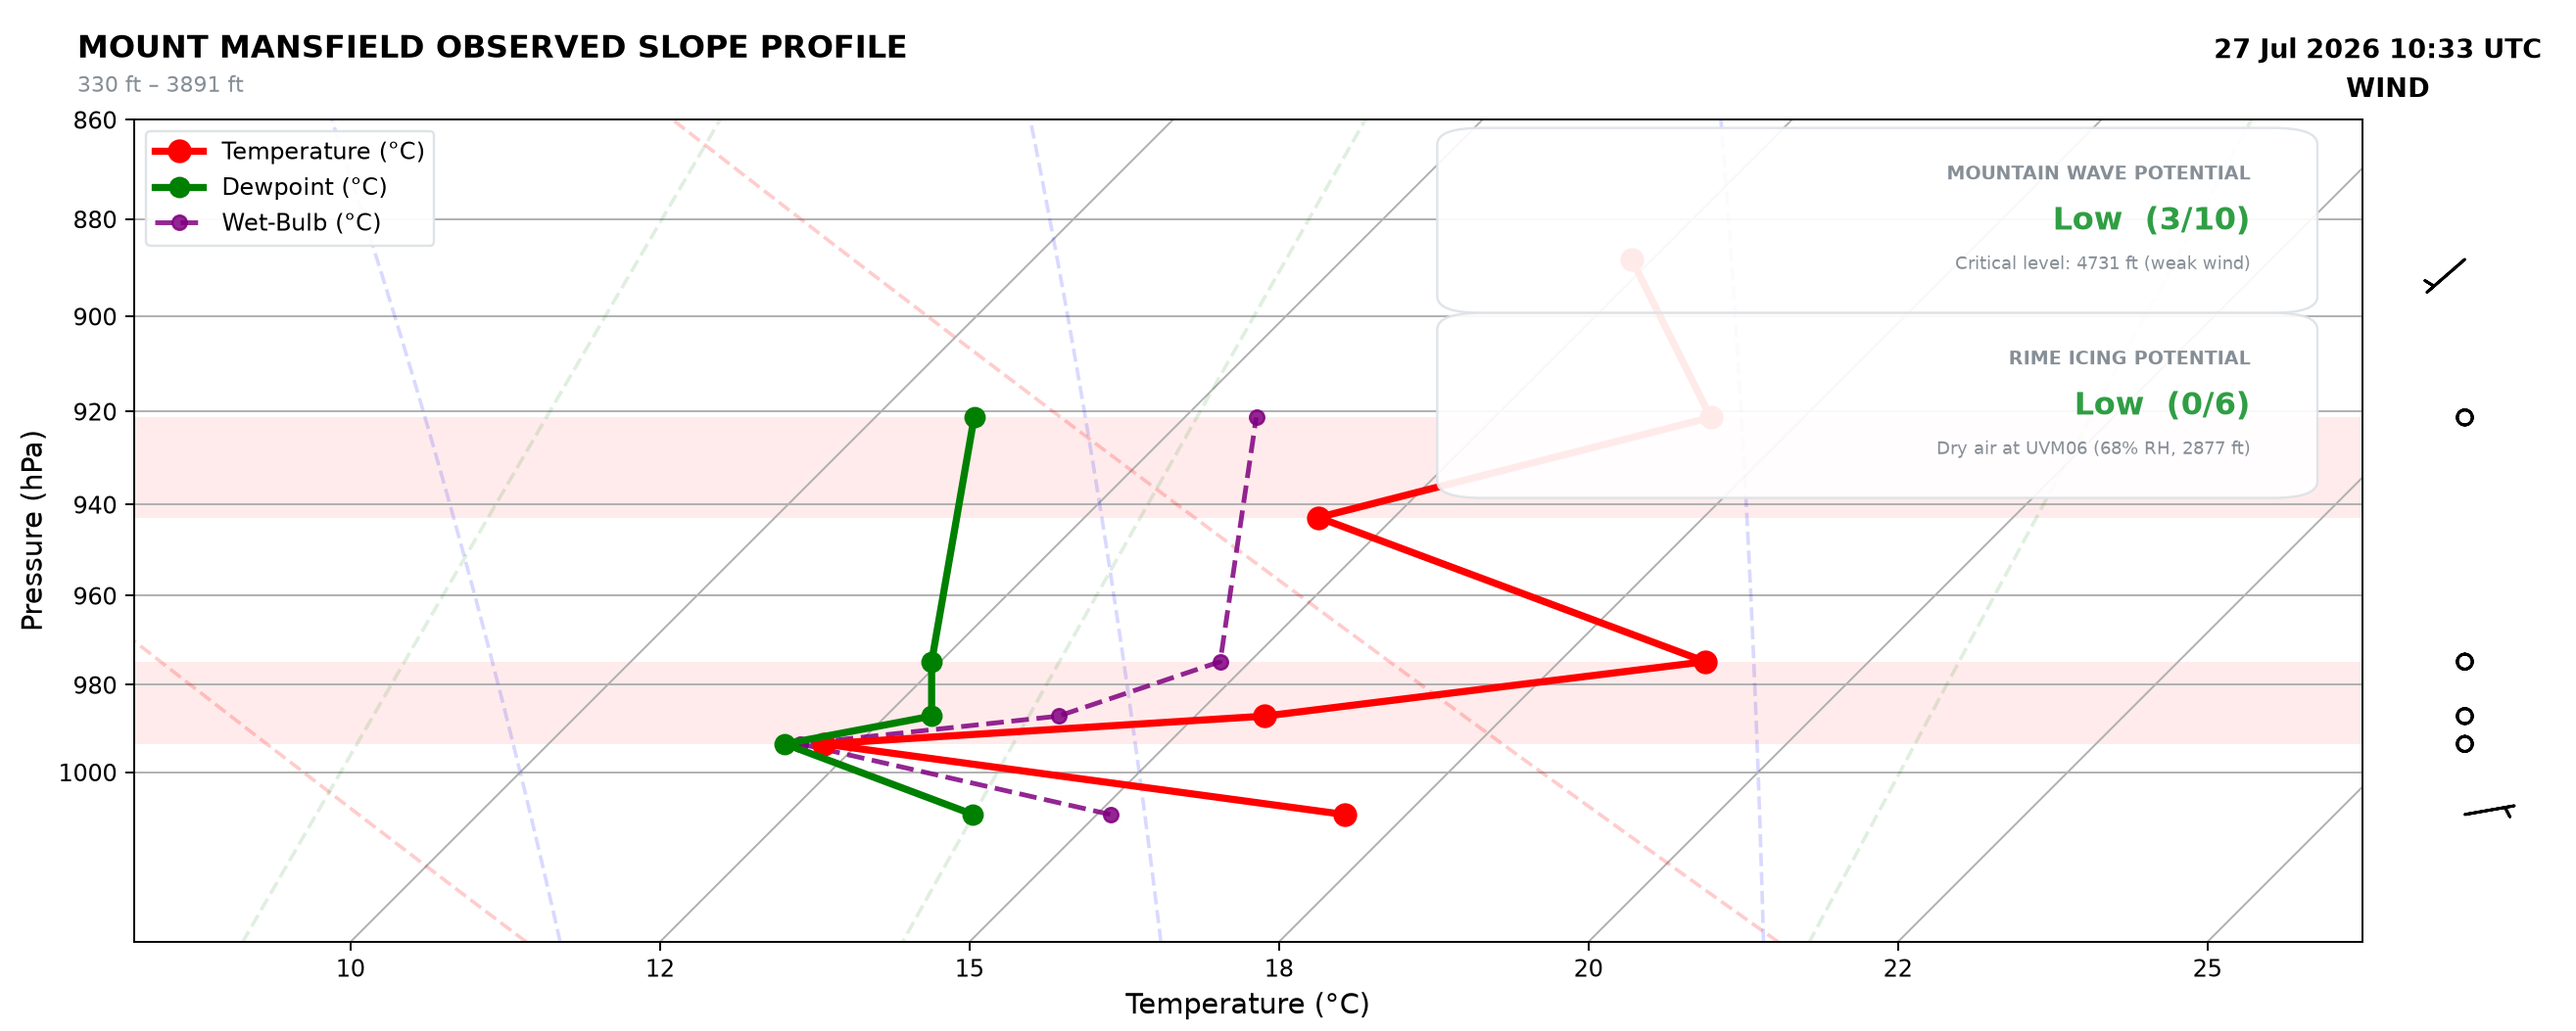
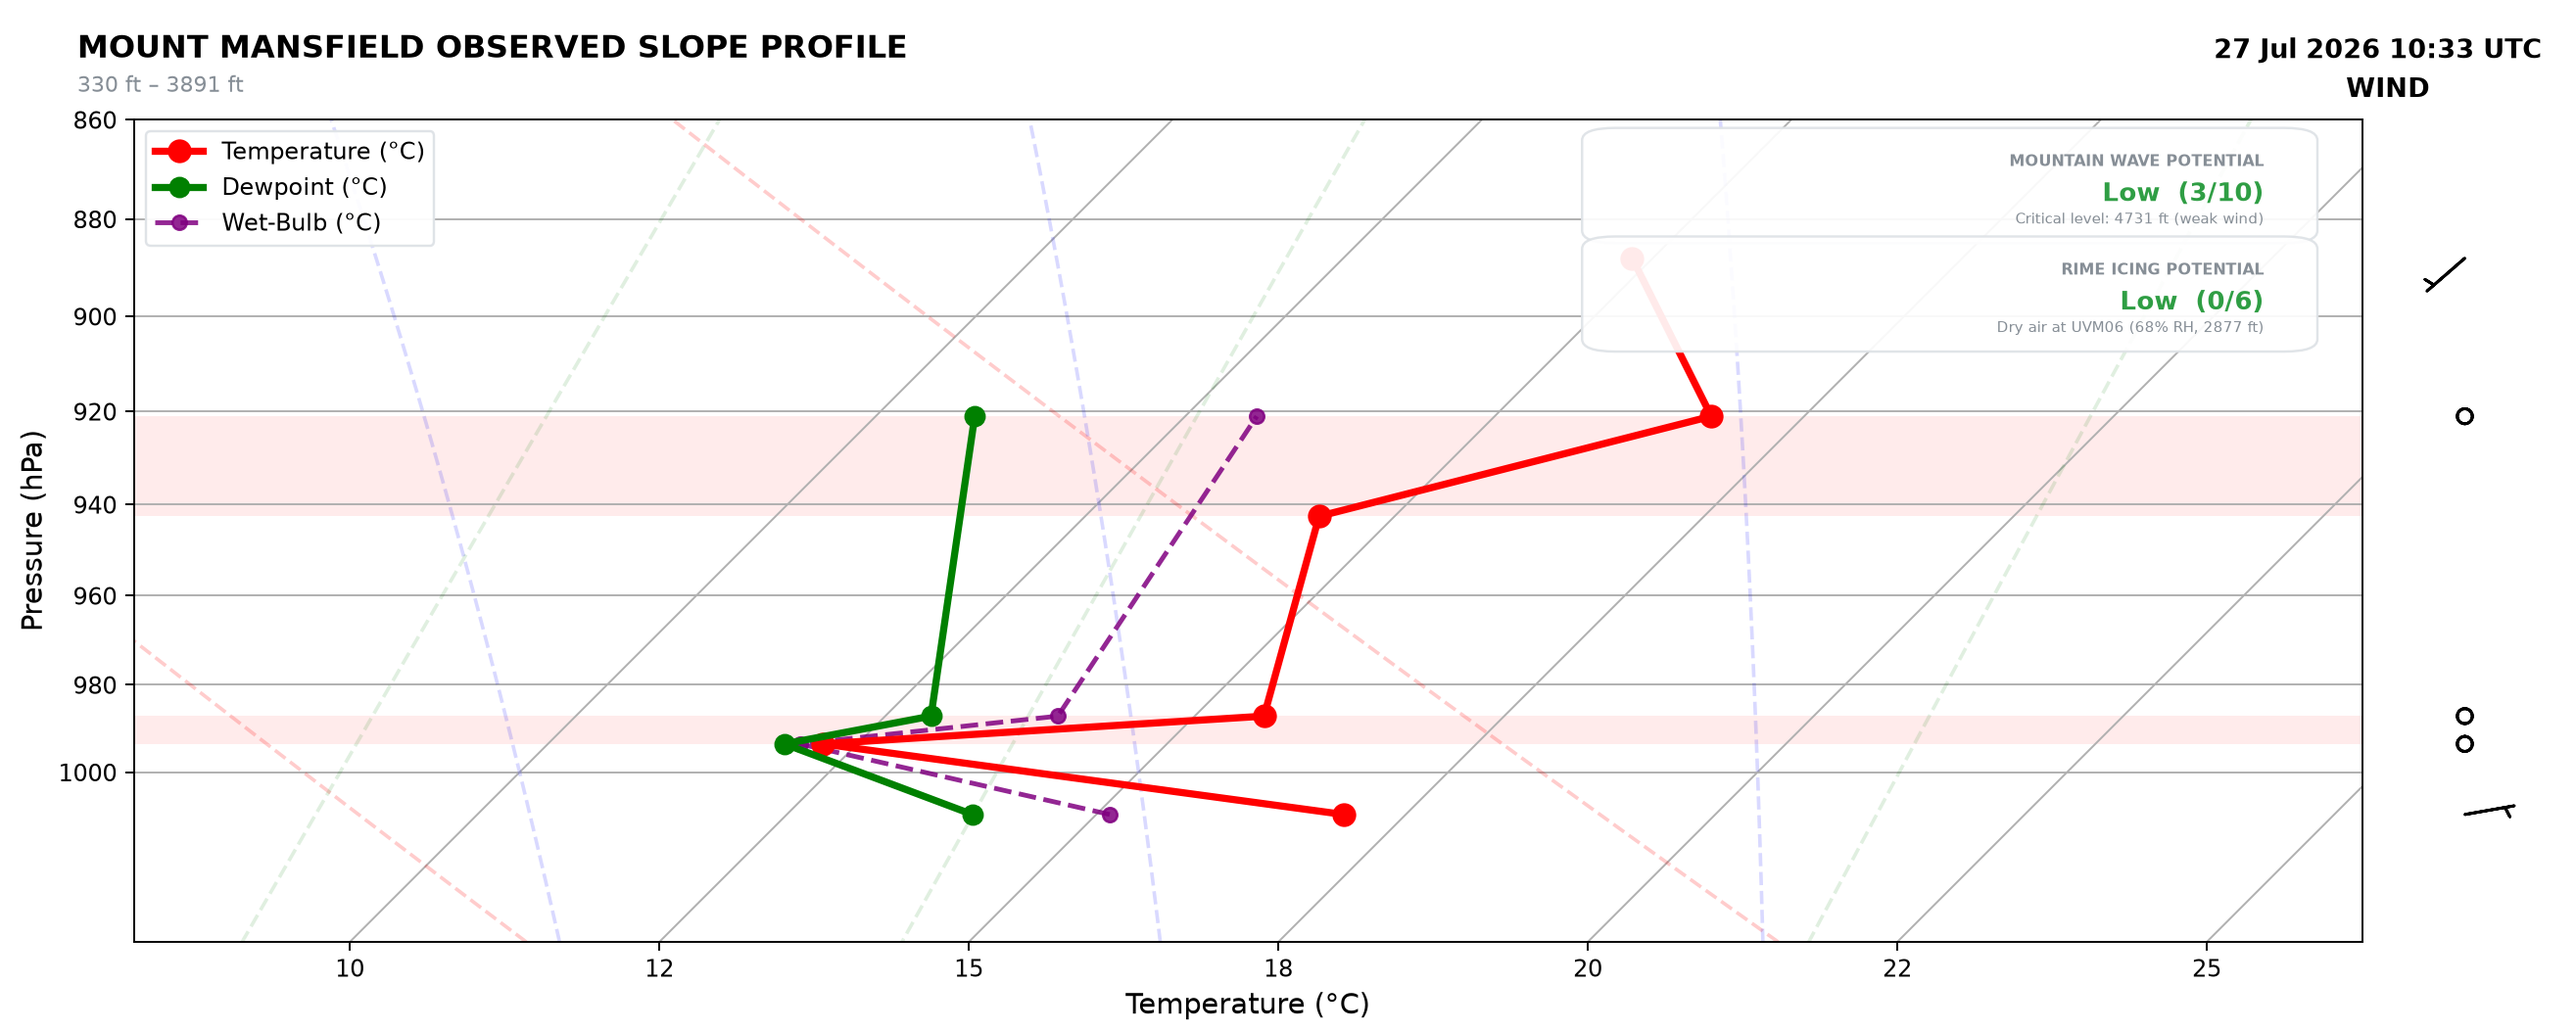
Update Mansfield sounding outputs [skip ci]

diff --git a/tempprofile.py b/tempprofile.py
@@ -239,6 +239,31 @@ def observation_age_minutes(timestamp):
     return (now - dt).total_seconds() / 60.0
 
 
+# Any single field (temperature, dewpoint, or wind) older than this
+# is treated as unusable - a station's WIND reading being 200+
+# minutes stale while its TEMPERATURE is fresh (or vice versa) is a
+# real thing that happens with these feeds, so this is checked per
+# field in build_profile(), not once per station.
+MAX_OBSERVATION_AGE_MINUTES = 100
+
+
+def is_stale(timestamp, max_age_minutes=MAX_OBSERVATION_AGE_MINUTES):
+    """
+    True if `timestamp` is older than `max_age_minutes`, using the
+    same age calculation as observation_age_minutes(). A missing
+    timestamp is NOT itself treated as stale - a value with no
+    timestamp attached is a separate "we don't know how old this is"
+    situation, handled wherever that value gets used, not here.
+    """
+
+    age = observation_age_minutes(timestamp)
+
+    if age is None:
+        return False
+
+    return age > max_age_minutes
+
+
 def fmt(value, decimals=1):
     """
     Safe formatting helper.
@@ -1184,7 +1209,13 @@ def build_profile(observations):
     Convert normalized observations into an elevation-sorted profile.
 
     Temperature is required for a station to enter the thermal profile.
-    Dewpoint and wind are optional.
+    Dewpoint and wind are optional. Any field older than
+    MAX_OBSERVATION_AGE_MINUTES is dropped before the station is
+    built - a stale TEMPERATURE is treated the same as a missing one
+    (station skipped), while a stale DEWPOINT or WIND just nulls out
+    that one field, since a station can easily have one fresh field
+    and one stale one, and dropping the whole station over a single
+    stale field would throw away otherwise-good data.
     """
 
     profile = []
@@ -1206,6 +1237,21 @@ def build_profile(observations):
             "temperature_C"
         )
 
+        temperature_time = obs.get(
+            "temperature_time"
+        )
+
+        if temperature is not None and is_stale(temperature_time):
+
+            print(
+                f"Skipping {stid}: "
+                f"temperature is "
+                f"{observation_age_minutes(temperature_time):.0f} min old "
+                f"(over {MAX_OBSERVATION_AGE_MINUTES:.0f} min limit)."
+            )
+
+            temperature = None
+
         if temperature is None:
 
             print(
@@ -1214,6 +1260,48 @@ def build_profile(observations):
             )
 
             continue
+
+        dewpoint = obs.get(
+            "dewpoint_C"
+        )
+
+        dewpoint_time = obs.get(
+            "dewpoint_time"
+        )
+
+        if dewpoint is not None and is_stale(dewpoint_time):
+
+            print(
+                f"  {stid}: dropping stale dewpoint "
+                f"({observation_age_minutes(dewpoint_time):.0f} min old)."
+            )
+
+            dewpoint = None
+
+        wind_speed = obs.get(
+            "wind_speed_kmh"
+        )
+
+        wind_direction = obs.get(
+            "wind_direction_deg"
+        )
+
+        wind_time = obs.get(
+            "wind_time"
+        )
+
+        if (
+            (wind_speed is not None or wind_direction is not None)
+            and is_stale(wind_time)
+        ):
+
+            print(
+                f"  {stid}: dropping stale wind "
+                f"({observation_age_minutes(wind_time):.0f} min old)."
+            )
+
+            wind_speed = None
+            wind_direction = None
 
         profile.append({
             "stid": stid,
@@ -1224,22 +1312,22 @@ def build_profile(observations):
                 temperature,
 
             "temperature_time":
-                obs.get("temperature_time"),
+                temperature_time,
 
             "dewpoint_C":
-                obs.get("dewpoint_C"),
+                dewpoint,
 
             "dewpoint_time":
-                obs.get("dewpoint_time"),
+                dewpoint_time,
 
             "wind_speed_kmh":
-                obs.get("wind_speed_kmh"),
+                wind_speed,
 
             "wind_direction_deg":
-                obs.get("wind_direction_deg"),
+                wind_direction,
 
             "wind_time":
-                obs.get("wind_time"),
+                wind_time,
 
             "barometric_pressure_Pa":
                 obs.get(
@@ -3721,10 +3809,10 @@ def plot_skewt(
         "Indeterminate": MUTED_TEXT,
     }
 
-    box_left = 0.595
-    box_width = 0.375
-    box_height = 0.205
-    box_gap = 0.02
+    box_left = 0.66
+    box_width = 0.31
+    box_height = 0.12
+    box_gap = 0.012
 
     wave = diagnostics.get("mountain_wave")
 
@@ -3742,12 +3830,12 @@ def plot_skewt(
         else:
             wave_detail = "No critical level in RAP profile"
 
-        wave_box_bottom = 0.775
+        wave_box_bottom = 0.86
 
         skew.ax.add_patch(
             FancyBboxPatch(
                 (box_left, wave_box_bottom), box_width, box_height,
-                boxstyle="round,pad=0.01,rounding_size=0.02",
+                boxstyle="round,pad=0.01,rounding_size=0.015",
                 transform=skew.ax.transAxes,
                 linewidth=1.0,
                 edgecolor=DIVIDER_COLOR,
@@ -3758,26 +3846,26 @@ def plot_skewt(
         )
 
         skew.ax.text(
-            box_left + box_width - 0.02, wave_box_bottom + box_height - 0.035,
+            box_left + box_width - 0.014, wave_box_bottom + box_height - 0.022,
             "MOUNTAIN WAVE POTENTIAL",
             transform=skew.ax.transAxes,
-            fontsize=8, fontweight="bold", color=MUTED_TEXT,
+            fontsize=6.5, fontweight="bold", color=MUTED_TEXT,
             ha="right", va="top", zorder=20,
         )
 
         skew.ax.text(
-            box_left + box_width - 0.02, wave_box_bottom + box_height - 0.085,
+            box_left + box_width - 0.014, wave_box_bottom + box_height - 0.055,
             f"{wave['category']}  ({wave['score']}/{wave['max_score']})",
             transform=skew.ax.transAxes,
-            fontsize=13, fontweight="bold", color=wave_color,
+            fontsize=10.5, fontweight="bold", color=wave_color,
             ha="right", va="top", zorder=20,
         )
 
         skew.ax.text(
-            box_left + box_width - 0.02, wave_box_bottom + box_height - 0.145,
+            box_left + box_width - 0.014, wave_box_bottom + box_height - 0.093,
             wave_detail,
             transform=skew.ax.transAxes,
-            fontsize=7.5, color=MUTED_TEXT,
+            fontsize=6, color=MUTED_TEXT,
             ha="right", va="top", zorder=20,
         )
 
@@ -3794,12 +3882,12 @@ def plot_skewt(
         # allows one.
         rime_detail = rime["reasons"][1] if len(rime["reasons"]) > 1 else ""
 
-        rime_box_bottom = wave_box_bottom - box_height - box_gap if wave is not None else 0.775
+        rime_box_bottom = wave_box_bottom - box_height - box_gap if wave is not None else 0.86
 
         skew.ax.add_patch(
             FancyBboxPatch(
                 (box_left, rime_box_bottom), box_width, box_height,
-                boxstyle="round,pad=0.01,rounding_size=0.02",
+                boxstyle="round,pad=0.01,rounding_size=0.015",
                 transform=skew.ax.transAxes,
                 linewidth=1.0,
                 edgecolor=DIVIDER_COLOR,
@@ -3810,26 +3898,26 @@ def plot_skewt(
         )
 
         skew.ax.text(
-            box_left + box_width - 0.02, rime_box_bottom + box_height - 0.035,
+            box_left + box_width - 0.014, rime_box_bottom + box_height - 0.022,
             "RIME ICING POTENTIAL",
             transform=skew.ax.transAxes,
-            fontsize=8, fontweight="bold", color=MUTED_TEXT,
+            fontsize=6.5, fontweight="bold", color=MUTED_TEXT,
             ha="right", va="top", zorder=20,
         )
 
         skew.ax.text(
-            box_left + box_width - 0.02, rime_box_bottom + box_height - 0.085,
+            box_left + box_width - 0.014, rime_box_bottom + box_height - 0.055,
             f"{rime['category']}  ({rime['score']}/{rime['max_score']})",
             transform=skew.ax.transAxes,
-            fontsize=13, fontweight="bold", color=rime_color,
+            fontsize=10.5, fontweight="bold", color=rime_color,
             ha="right", va="top", zorder=20,
         )
 
         skew.ax.text(
-            box_left + box_width - 0.02, rime_box_bottom + box_height - 0.145,
+            box_left + box_width - 0.014, rime_box_bottom + box_height - 0.093,
             rime_detail,
             transform=skew.ax.transAxes,
-            fontsize=7.5, color=MUTED_TEXT,
+            fontsize=6, color=MUTED_TEXT,
             ha="right", va="top", zorder=20,
         )
 
